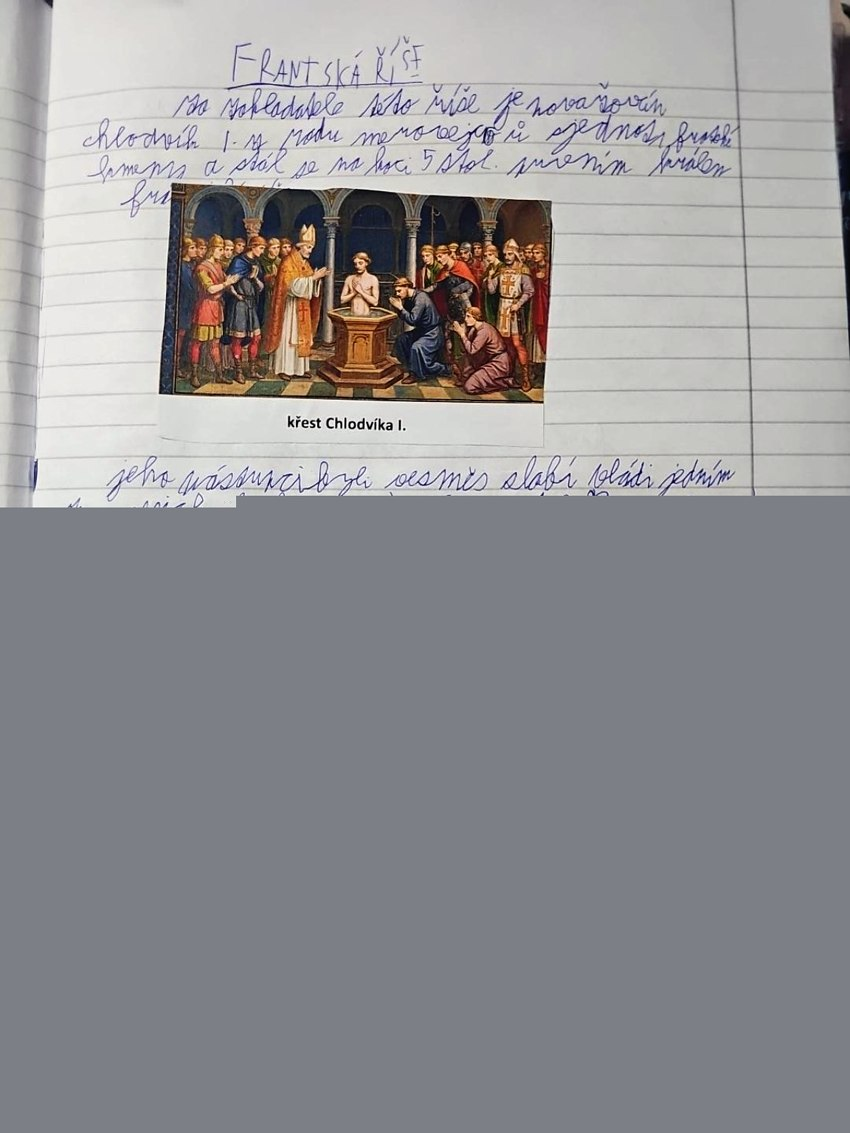
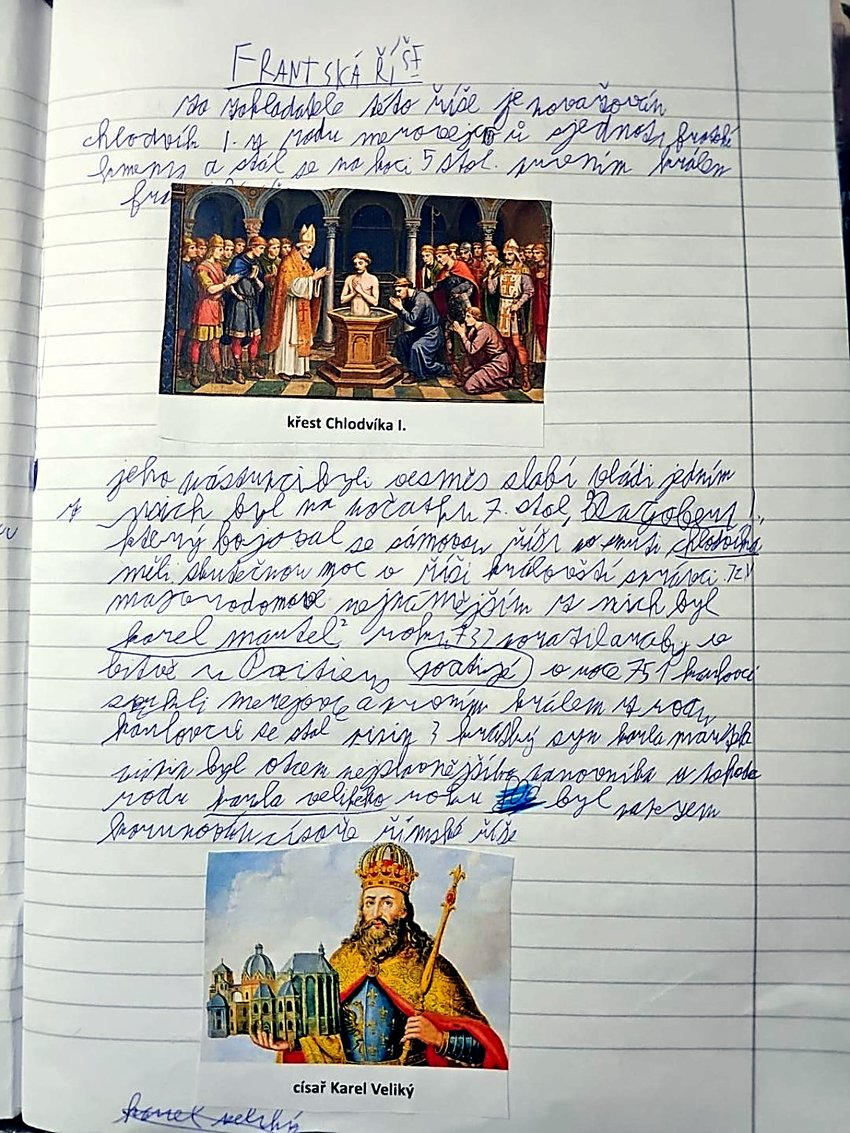
Sešit, strana 8: celá fotka místo useknuté, přepis podle ní
Původní fotka měla černou spodní polovinu. Přepis opraven podle
sešitu: bez Wogastisburgu (v sešitě není), 'královští správci',
751 Karlovci sesadili Merovejce.

Claude-Session: https://claude.ai/code/session_01Er9VutdxiwWrE9g3uLB9bk

diff --git a/zdroje/prepisy/sesit-08.md b/zdroje/prepisy/sesit-08.md
@@ -2,13 +2,13 @@
 
 ![Původní fotografie](../fotografie/sesit-08.jpg)
 
-Fotografie zakrývá část horní věty. Následuje čitelná rekonstrukce, ne doslovný OCR výstup.
+Nalepený obrázek zakrývá část horní věty. Následuje čitelná rekonstrukce, ne doslovný OCR výstup.
 
 > [Za zakladatele Franské říše je považován] Chlodvík I. z rodu Merovejců. Sjednotil franské kmeny a stal se na konci 5. století prvním králem Franků.
 
 *Tištěný popisek: křest Chlodvíka I.*
 
-> Jeho nástupci byli vesměs slabí vládci. Jedním z nich byl na počátku 7. století Dagobert I., který bojoval se Sámovou říší v bitvě u Wogastisburgu. Skutečnou moc v říši drželi vojenští správci, tzv. majordomové. Nejznámějším z nich byl Karel Martel. Roku 732 porazil Araby v bitvě u Poitiers. V roce 751 se prvním králem z rodu Karlovců stal Pipin III. Krátký, syn Karla Martela. Pipin byl otcem nejznámějšího panovníka tohoto rodu, Karla Velikého. Roku 800 byl papežem korunován císařem římské říše.
+> Jeho nástupci byli vesměs slabí vládci. Jedním z nich byl na počátku 7. století Dagobert I., který bojoval se Sámovou říší. Po smrti Chlodvíka měli skutečnou moc v říši královští správci, tzv. majordomové. Nejznámějším z nich byl Karel Martel. Roku 732 porazil Araby v bitvě u Poitiers. V roce 751 Karlovci sesadili Merovejce a prvním králem z rodu Karlovců se stal Pipin III. Krátký, syn Karla Martela. Pipin byl otcem nejznámějšího panovníka tohoto rodu, Karla Velikého. Roku 800 byl papežem korunován císařem římské říše.
 
 *Tištěný popisek: císař Karel Veliký.*
 
